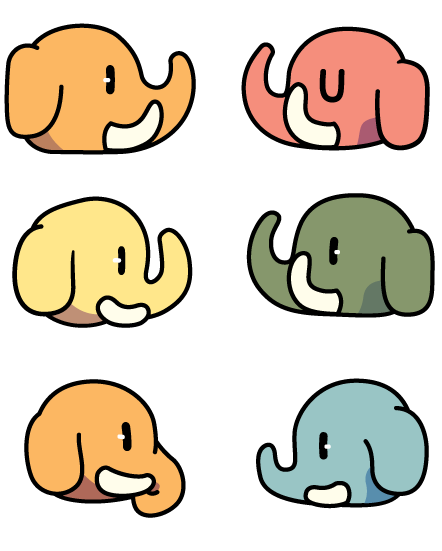
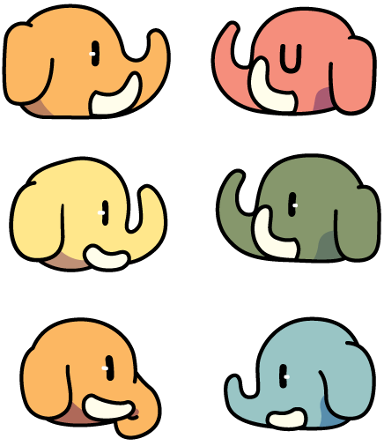
Improve responsivity

diff --git a/src/scss/HowItWorks.scss b/src/scss/HowItWorks.scss
@@ -34,15 +34,38 @@
   }
 
   .network-grid {
-    overflow: hidden;
+    flex: 1 1 auto;
     display: flex;
     flex-direction: column;
     align-items: center;
     justify-content: center;
-    max-height: 446px;
 
     img {
       display: block;
+    }
+  }
+}
+
+@media only screen and (max-width: 800px) {
+  .how-it-works {
+    padding: 0 20px;
+  }
+}
+
+@media only screen and (max-width: 640px) {
+  .how-it-works {
+    .row {
+      display: block;
+    }
+
+    .specs {
+      width: 100%;
+      margin: 0;
+      margin-bottom: 50px;
+    }
+
+    .network-grid {
+      margin-bottom: 50px;
     }
   }
 }

diff --git a/src/Credits.js b/src/Credits.js
@@ -2,7 +2,7 @@ import React from 'react';
 
 const Credits = () => (
   <div className='credits' id='credits'>
-    <div className='container row'>
+    <div className='container row optional-row'>
       <div className='funding'>
         <h3>Sponsors</h3>
         <p>Mastodon is free, open-source software. There is no advertising, monetizing, or venture capital. The development is crowdfunded.</p>

diff --git a/src/scss/App.scss b/src/scss/App.scss
@@ -414,6 +414,11 @@ $phi: 1.6180339887498948482;
     padding: 0 20px;
   }
 
+  .bottom-cta {
+    padding-left: 20px;
+    padding-right: 20px;
+  }
+
   .as-seen-on .logo-grid {
     & > div {
       flex-direction: column;
@@ -435,7 +440,7 @@ $phi: 1.6180339887498948482;
 
     .hero {
       width: 90%;
-      height: initial;
+      height: 190px;
       padding-bottom: 100px;
     }
 

diff --git a/src/scss/Credits.scss b/src/scss/Credits.scss
@@ -66,3 +66,22 @@
   display: flex;
   justify-content: space-between;
 }
+
+@media only screen and (max-width: 800px) {
+  .credits {
+    padding-left: 20px;
+    padding-right: 20px;
+
+    .optional-row {
+      display: block;
+    }
+
+    .funding {
+      margin-bottom: 50px;
+    }
+
+    .branding {
+      width: 100%;
+    }
+  }
+}

diff --git a/src/scss/Wizard.scss b/src/scss/Wizard.scss
@@ -225,3 +225,13 @@
     }
   }
 }
+
+@media only screen and (max-width: 800px) {
+  .wizard-page {
+    padding: 0 20px;
+  }
+
+  .wizard {
+    max-height: 60vh;
+  }
+}
